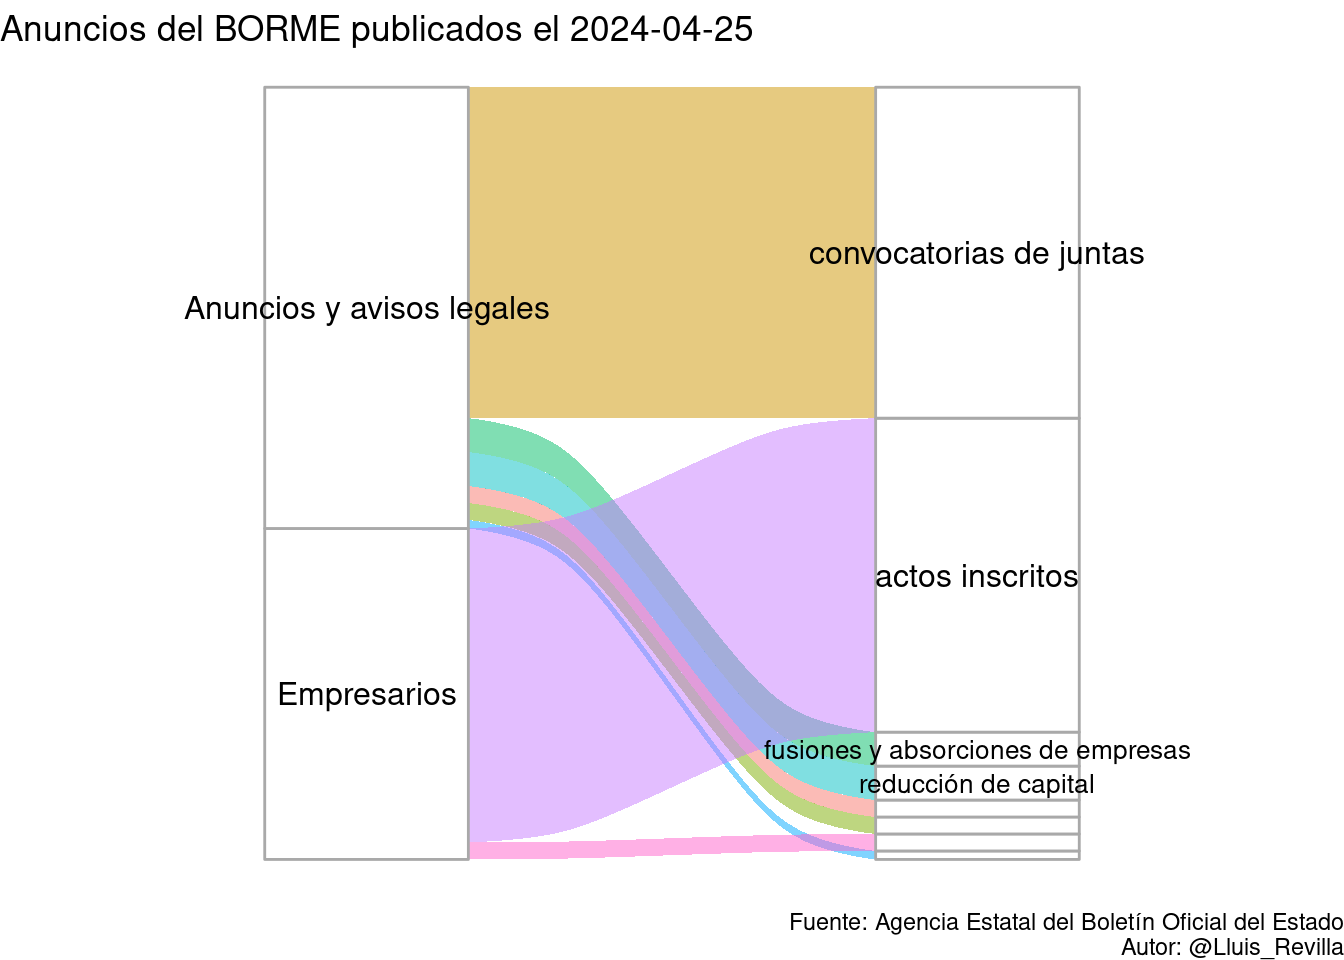
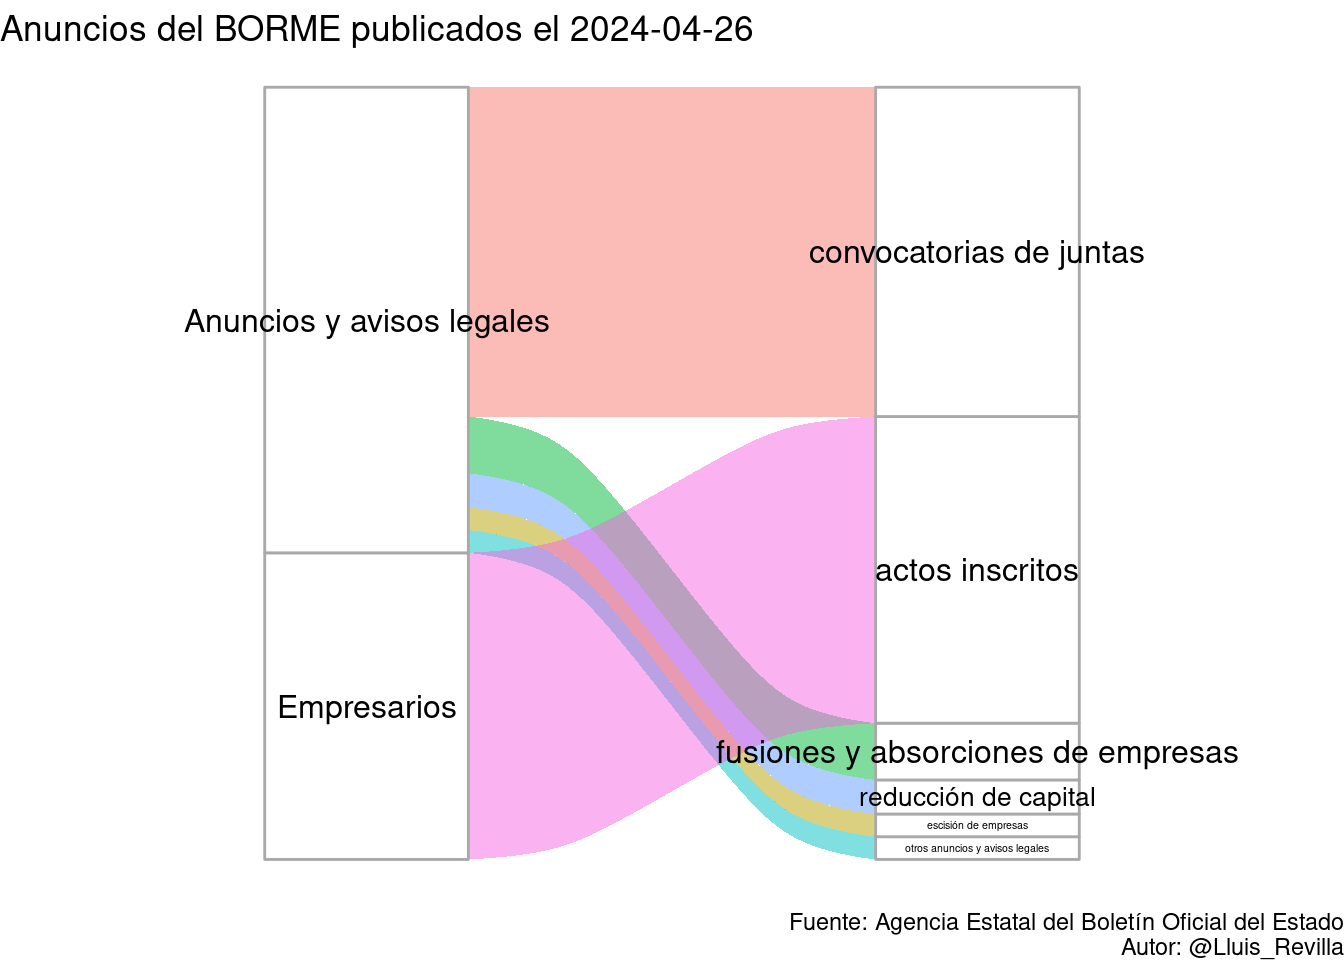
Update BORME

diff --git a/docs/last_BORME.html b/docs/last_BORME.html
@@ -379,14 +379,14 @@ $(document).ready(function () {
 
 <div id="resumen-gráfico" class="section level1">
 <h1>Resumen gráfico</h1>
-<p>Esta página web contiene el último sumario del BORME publicado el 2024-04-25 con 91 publicaciones.</p>
+<p>Esta página web contiene el último sumario del BORME publicado el 2024-04-26 con 68 publicaciones.</p>
 <p><img src="last_BORME_files/figure-html/graphics-1.png" width="672" /></p>
 </div>
 <div id="tabla-de-publicaciones" class="section level1">
 <h1>Tabla de publicaciones</h1>
 <p>Aquí está la tabla completa con enlaces a las publicaciones:</p>
-<div class="datatables html-widget html-fill-item-overflow-hidden html-fill-item" id="htmlwidget-faa242d91a4d68684cd0" style="width:100%;height:auto;"></div>
-<script type="application/json" data-for="htmlwidget-faa242d91a4d68684cd0">{"x":{"filter":"top","vertical":false,"filterHTML":"<tr>\n  <td><\/td>\n  <td data-type=\"character\" style=\"vertical-align: top;\">\n    <div class=\"form-group has-feedback\" style=\"margin-bottom: auto;\">\n      <input type=\"search\" placeholder=\"All\" class=\"form-control\" style=\"width: 100%;\"/>\n      <span class=\"glyphicon glyphicon-remove-circle form-control-feedback\"><\/span>\n    <\/div>\n  <\/td>\n  <td data-type=\"character\" style=\"vertical-align: top;\">\n    <div class=\"form-group has-feedback\" style=\"margin-bottom: auto;\">\n      <input type=\"search\" placeholder=\"All\" class=\"form-control\" style=\"width: 100%;\"/>\n      <span class=\"glyphicon glyphicon-remove-circle form-control-feedback\"><\/span>\n    <\/div>\n  <\/td>\n  <td data-type=\"character\" style=\"vertical-align: top;\">\n    <div class=\"form-group has-feedback\" style=\"margin-bottom: auto;\">\n      <input type=\"search\" placeholder=\"All\" class=\"form-control\" style=\"width: 100%;\" disabled=\"\"/>\n      <span class=\"glyphicon glyphicon-remove-circle form-control-feedback\"><\/span>\n    <\/div>\n  <\/td>\n  <td data-type=\"character\" style=\"vertical-align: top;\">\n    <div class=\"form-group has-feedback\" style=\"margin-bottom: auto;\">\n      <input type=\"search\" placeholder=\"All\" class=\"form-control\" style=\"width: 100%;\"/>\n      <span class=\"glyphicon glyphicon-remove-circle form-control-feedback\"><\/span>\n    <\/div>\n  <\/td>\n<\/tr>","data":[["1","2","3","4","5","6","7","8","9","10","11","12","13","14","15","16","17","18","19","20","21","22","23","24","25","26","27","28","29","30","31","32","33","34","35","36","37","38","39","40","41","42","43","44","45","46","47","48","49","50","51","52","53","54","55","56","57","58","59","60","61","62","63","64","65","66","67","68","69","70","71","72","73","74","75","76","77","78","79","80","81","82","83","84","85","86","87","88","89","90","91"],["SECCIÓN PRIMERA. Empresarios","SECCIÓN PRIMERA. Empresarios","SECCIÓN PRIMERA. Empresarios","SECCIÓN PRIMERA. Empresarios","SECCIÓN PRIMERA. Empresarios","SECCIÓN PRIMERA. Empresarios","SECCIÓN PRIMERA. Empresarios","SECCIÓN PRIMERA. Empresarios","SECCIÓN PRIMERA. Empresarios","SECCIÓN PRIMERA. Empresarios","SECCIÓN PRIMERA. Empresarios","SECCIÓN PRIMERA. Empresarios","SECCIÓN PRIMERA. Empresarios","SECCIÓN PRIMERA. Empresarios","SECCIÓN PRIMERA. Empresarios","SECCIÓN PRIMERA. Empresarios","SECCIÓN PRIMERA. Empresarios","SECCIÓN PRIMERA. Empresarios","SECCIÓN PRIMERA. Empresarios","SECCIÓN PRIMERA. Empresarios","SECCIÓN PRIMERA. Empresarios","SECCIÓN PRIMERA. Empresarios","SECCIÓN PRIMERA. Empresarios","SECCIÓN PRIMERA. Empresarios","SECCIÓN PRIMERA. Empresarios","SECCIÓN PRIMERA. Empresarios","SECCIÓN PRIMERA. Empresarios","SECCIÓN PRIMERA. Empresarios","SECCIÓN PRIMERA. Empresarios","SECCIÓN PRIMERA. Empresarios","SECCIÓN PRIMERA. Empresarios","SECCIÓN PRIMERA. Empresarios","SECCIÓN PRIMERA. Empresarios","SECCIÓN PRIMERA. Empresarios","SECCIÓN PRIMERA. Empresarios","SECCIÓN PRIMERA. Empresarios","SECCIÓN PRIMERA. Empresarios","SECCIÓN PRIMERA. Empresarios","SECCIÓN PRIMERA. Empresarios","SECCIÓN SEGUNDA. Anuncios y avisos legales","SECCIÓN SEGUNDA. Anuncios y avisos legales","SECCIÓN SEGUNDA. Anuncios y avisos legales","SECCIÓN SEGUNDA. Anuncios y avisos legales","SECCIÓN SEGUNDA. Anuncios y avisos legales","SECCIÓN SEGUNDA. Anuncios y avisos legales","SECCIÓN SEGUNDA. Anuncios y avisos legales","SECCIÓN SEGUNDA. Anuncios y avisos legales","SECCIÓN SEGUNDA. Anuncios y avisos legales","SECCIÓN SEGUNDA. Anuncios y avisos legales","SECCIÓN SEGUNDA. Anuncios y avisos legales","SECCIÓN SEGUNDA. Anuncios y avisos legales","SECCIÓN SEGUNDA. Anuncios y avisos legales","SECCIÓN SEGUNDA. Anuncios y avisos legales","SECCIÓN SEGUNDA. Anuncios y avisos legales","SECCIÓN SEGUNDA. Anuncios y avisos legales","SECCIÓN SEGUNDA. Anuncios y avisos legales","SECCIÓN SEGUNDA. Anuncios y avisos legales","SECCIÓN SEGUNDA. Anuncios y avisos legales","SECCIÓN SEGUNDA. Anuncios y avisos legales","SECCIÓN SEGUNDA. Anuncios y avisos legales","SECCIÓN SEGUNDA. Anuncios y avisos legales","SECCIÓN SEGUNDA. Anuncios y avisos legales","SECCIÓN SEGUNDA. Anuncios y avisos legales","SECCIÓN SEGUNDA. Anuncios y avisos legales","SECCIÓN SEGUNDA. Anuncios y avisos legales","SECCIÓN SEGUNDA. Anuncios y avisos legales","SECCIÓN SEGUNDA. Anuncios y avisos legales","SECCIÓN SEGUNDA. Anuncios y avisos legales","SECCIÓN SEGUNDA. Anuncios y avisos legales","SECCIÓN SEGUNDA. Anuncios y avisos legales","SECCIÓN SEGUNDA. Anuncios y avisos legales","SECCIÓN SEGUNDA. Anuncios y avisos legales","SECCIÓN SEGUNDA. Anuncios y avisos legales","SECCIÓN SEGUNDA. Anuncios y avisos legales","SECCIÓN SEGUNDA. Anuncios y avisos legales","SECCIÓN SEGUNDA. Anuncios y avisos legales","SECCIÓN SEGUNDA. Anuncios y avisos legales","SECCIÓN SEGUNDA. Anuncios y avisos legales","SECCIÓN SEGUNDA. Anuncios y avisos legales","SECCIÓN SEGUNDA. Anuncios y avisos legales","SECCIÓN SEGUNDA. Anuncios y avisos legales","SECCIÓN SEGUNDA. Anuncios y avisos legales","SECCIÓN SEGUNDA. Anuncios y avisos legales","SECCIÓN SEGUNDA. Anuncios y avisos legales","SECCIÓN SEGUNDA. Anuncios y avisos legales","SECCIÓN SEGUNDA. Anuncios y avisos legales","SECCIÓN SEGUNDA. Anuncios y avisos legales","SECCIÓN SEGUNDA. Anuncios y avisos legales","SECCIÓN SEGUNDA. Anuncios y avisos legales","SECCIÓN SEGUNDA. Anuncios y avisos legales","SECCIÓN SEGUNDA. Anuncios y avisos legales"],["Actos inscritos","Actos inscritos","Actos inscritos","Actos inscritos","Actos inscritos","Actos inscritos","Actos inscritos","Actos inscritos","Actos inscritos","Actos inscritos","Actos inscritos","Actos inscritos","Actos inscritos","Actos inscritos","Actos inscritos","Actos inscritos","Actos inscritos","Actos inscritos","Actos inscritos","Actos inscritos","Actos inscritos","Actos inscritos","Actos inscritos","Actos inscritos","Actos inscritos","Actos inscritos","Actos inscritos","Actos inscritos","Actos inscritos","Actos inscritos","Actos inscritos","Actos inscritos","Actos inscritos","Actos inscritos","Actos inscritos","Actos inscritos","Actos inscritos","Otros actos publicados en el Registro Mercantil","Otros actos publicados en el Registro Mercantil","CONVOCATORIAS DE JUNTAS","CONVOCATORIAS DE JUNTAS","CONVOCATORIAS DE JUNTAS","CONVOCATORIAS DE JUNTAS","CONVOCATORIAS DE JUNTAS","CONVOCATORIAS DE JUNTAS","CONVOCATORIAS DE JUNTAS","CONVOCATORIAS DE JUNTAS","CONVOCATORIAS DE JUNTAS","CONVOCATORIAS DE JUNTAS","CONVOCATORIAS DE JUNTAS","CONVOCATORIAS DE JUNTAS","CONVOCATORIAS DE JUNTAS","CONVOCATORIAS DE JUNTAS","CONVOCATORIAS DE JUNTAS","CONVOCATORIAS DE JUNTAS","CONVOCATORIAS DE JUNTAS","CONVOCATORIAS DE JUNTAS","CONVOCATORIAS DE JUNTAS","CONVOCATORIAS DE JUNTAS","CONVOCATORIAS DE JUNTAS","CONVOCATORIAS DE JUNTAS","CONVOCATORIAS DE JUNTAS","CONVOCATORIAS DE JUNTAS","CONVOCATORIAS DE JUNTAS","CONVOCATORIAS DE JUNTAS","CONVOCATORIAS DE JUNTAS","CONVOCATORIAS DE JUNTAS","CONVOCATORIAS DE JUNTAS","CONVOCATORIAS DE JUNTAS","CONVOCATORIAS DE JUNTAS","CONVOCATORIAS DE JUNTAS","CONVOCATORIAS DE JUNTAS","CONVOCATORIAS DE JUNTAS","CONVOCATORIAS DE JUNTAS","CONVOCATORIAS DE JUNTAS","CONVOCATORIAS DE JUNTAS","CONVOCATORIAS DE JUNTAS","CONVOCATORIAS DE JUNTAS","FUSIONES Y ABSORCIONES DE EMPRESAS","FUSIONES Y ABSORCIONES DE EMPRESAS","FUSIONES Y ABSORCIONES DE EMPRESAS","FUSIONES Y ABSORCIONES DE EMPRESAS","ESCISIÓN DE EMPRESAS","ESCISIÓN DE EMPRESAS","TRANSFORMACIÓN DE EMPRESAS","AUMENTO DE CAPITAL","AUMENTO DE CAPITAL","REDUCCIÓN DE CAPITAL","REDUCCIÓN DE CAPITAL","REDUCCIÓN DE CAPITAL","REDUCCIÓN DE CAPITAL"],[null,null,null,null,null,null,null,null,null,null,null,null,null,null,null,null,null,null,null,null,null,null,null,null,null,null,null,null,null,null,null,null,null,null,null,null,null,null,null,null,null,null,null,null,null,null,null,null,null,null,null,null,null,null,null,null,null,null,null,null,null,null,null,null,null,null,null,null,null,null,null,null,null,null,null,null,null,null,null,null,null,null,null,null,null,null,null,null,null,null,null],["BORME-A-2024-81-01","BORME-A-2024-81-02","BORME-A-2024-81-04","BORME-A-2024-81-05","BORME-A-2024-81-06","BORME-A-2024-81-07","BORME-A-2024-81-08","BORME-A-2024-81-09","BORME-A-2024-81-11","BORME-A-2024-81-12","BORME-A-2024-81-13","BORME-A-2024-81-14","BORME-A-2024-81-15","BORME-A-2024-81-16","BORME-A-2024-81-17","BORME-A-2024-81-19","BORME-A-2024-81-20","BORME-A-2024-81-24","BORME-A-2024-81-25","BORME-A-2024-81-27","BORME-A-2024-81-28","BORME-A-2024-81-29","BORME-A-2024-81-30","BORME-A-2024-81-31","BORME-A-2024-81-33","BORME-A-2024-81-35","BORME-A-2024-81-36","BORME-A-2024-81-39","BORME-A-2024-81-40","BORME-A-2024-81-41","BORME-A-2024-81-43","BORME-A-2024-81-45","BORME-A-2024-81-46","BORME-A-2024-81-47","BORME-A-2024-81-48","BORME-A-2024-81-50","BORME-A-2024-81-99","BORME-B-2024-81-05","BORME-B-2024-81-28","BORME-C-2024-1568","BORME-C-2024-1569","BORME-C-2024-1570","BORME-C-2024-1571","BORME-C-2024-1572","BORME-C-2024-1573","BORME-C-2024-1574","BORME-C-2024-1575","BORME-C-2024-1576","BORME-C-2024-1577","BORME-C-2024-1578","BORME-C-2024-1579","BORME-C-2024-1580","BORME-C-2024-1581","BORME-C-2024-1582","BORME-C-2024-1583","BORME-C-2024-1584","BORME-C-2024-1585","BORME-C-2024-1586","BORME-C-2024-1587","BORME-C-2024-1588","BORME-C-2024-1589","BORME-C-2024-1590","BORME-C-2024-1591","BORME-C-2024-1592","BORME-C-2024-1593","BORME-C-2024-1594","BORME-C-2024-1595","BORME-C-2024-1596","BORME-C-2024-1597","BORME-C-2024-1598","BORME-C-2024-1599","BORME-C-2024-1600","BORME-C-2024-1601","BORME-C-2024-1602","BORME-C-2024-1603","BORME-C-2024-1604","BORME-C-2024-1605","BORME-C-2024-1606","BORME-C-2024-1607","BORME-C-2024-1608","BORME-C-2024-1609","BORME-C-2024-1610","BORME-C-2024-1611","BORME-C-2024-1612","BORME-C-2024-1613","BORME-C-2024-1614","BORME-C-2024-1615","BORME-C-2024-1616","BORME-C-2024-1617","BORME-C-2024-1618","BORME-C-2024-1619"]],"container":"<table class=\"display\">\n  <thead>\n    <tr>\n      <th> <\/th>\n      <th>Sección<\/th>\n      <th>Emisor<\/th>\n      <th>Texto<\/th>\n      <th>Link<\/th>\n    <\/tr>\n  <\/thead>\n<\/table>","options":{"pageLength":10,"autoWidth":true,"columnDefs":[{"orderable":false,"targets":0},{"name":" ","targets":0},{"name":"Sección","targets":1},{"name":"Emisor","targets":2},{"name":"Texto","targets":3},{"name":"Link","targets":4}],"order":[],"orderClasses":false,"orderCellsTop":true}},"evals":[],"jsHooks":[]}</script>
+<div class="datatables html-widget html-fill-item-overflow-hidden html-fill-item" id="htmlwidget-0e7ebeff2a682cfec1ec" style="width:100%;height:auto;"></div>
+<script type="application/json" data-for="htmlwidget-0e7ebeff2a682cfec1ec">{"x":{"filter":"top","vertical":false,"filterHTML":"<tr>\n  <td><\/td>\n  <td data-type=\"character\" style=\"vertical-align: top;\">\n    <div class=\"form-group has-feedback\" style=\"margin-bottom: auto;\">\n      <input type=\"search\" placeholder=\"All\" class=\"form-control\" style=\"width: 100%;\"/>\n      <span class=\"glyphicon glyphicon-remove-circle form-control-feedback\"><\/span>\n    <\/div>\n  <\/td>\n  <td data-type=\"character\" style=\"vertical-align: top;\">\n    <div class=\"form-group has-feedback\" style=\"margin-bottom: auto;\">\n      <input type=\"search\" placeholder=\"All\" class=\"form-control\" style=\"width: 100%;\"/>\n      <span class=\"glyphicon glyphicon-remove-circle form-control-feedback\"><\/span>\n    <\/div>\n  <\/td>\n  <td data-type=\"character\" style=\"vertical-align: top;\">\n    <div class=\"form-group has-feedback\" style=\"margin-bottom: auto;\">\n      <input type=\"search\" placeholder=\"All\" class=\"form-control\" style=\"width: 100%;\" disabled=\"\"/>\n      <span class=\"glyphicon glyphicon-remove-circle form-control-feedback\"><\/span>\n    <\/div>\n  <\/td>\n  <td data-type=\"character\" style=\"vertical-align: top;\">\n    <div class=\"form-group has-feedback\" style=\"margin-bottom: auto;\">\n      <input type=\"search\" placeholder=\"All\" class=\"form-control\" style=\"width: 100%;\"/>\n      <span class=\"glyphicon glyphicon-remove-circle form-control-feedback\"><\/span>\n    <\/div>\n  <\/td>\n<\/tr>","data":[["1","2","3","4","5","6","7","8","9","10","11","12","13","14","15","16","17","18","19","20","21","22","23","24","25","26","27","28","29","30","31","32","33","34","35","36","37","38","39","40","41","42","43","44","45","46","47","48","49","50","51","52","53","54","55","56","57","58","59","60","61","62","63","64","65","66","67","68"],["SECCIÓN PRIMERA. Empresarios","SECCIÓN PRIMERA. Empresarios","SECCIÓN PRIMERA. Empresarios","SECCIÓN PRIMERA. Empresarios","SECCIÓN PRIMERA. Empresarios","SECCIÓN PRIMERA. Empresarios","SECCIÓN PRIMERA. Empresarios","SECCIÓN PRIMERA. Empresarios","SECCIÓN PRIMERA. Empresarios","SECCIÓN PRIMERA. Empresarios","SECCIÓN PRIMERA. Empresarios","SECCIÓN PRIMERA. Empresarios","SECCIÓN PRIMERA. Empresarios","SECCIÓN PRIMERA. Empresarios","SECCIÓN PRIMERA. Empresarios","SECCIÓN PRIMERA. Empresarios","SECCIÓN PRIMERA. Empresarios","SECCIÓN PRIMERA. Empresarios","SECCIÓN PRIMERA. Empresarios","SECCIÓN PRIMERA. Empresarios","SECCIÓN PRIMERA. Empresarios","SECCIÓN PRIMERA. Empresarios","SECCIÓN PRIMERA. Empresarios","SECCIÓN PRIMERA. Empresarios","SECCIÓN PRIMERA. Empresarios","SECCIÓN PRIMERA. Empresarios","SECCIÓN PRIMERA. Empresarios","SECCIÓN SEGUNDA. Anuncios y avisos legales","SECCIÓN SEGUNDA. Anuncios y avisos legales","SECCIÓN SEGUNDA. Anuncios y avisos legales","SECCIÓN SEGUNDA. Anuncios y avisos legales","SECCIÓN SEGUNDA. Anuncios y avisos legales","SECCIÓN SEGUNDA. Anuncios y avisos legales","SECCIÓN SEGUNDA. Anuncios y avisos legales","SECCIÓN SEGUNDA. Anuncios y avisos legales","SECCIÓN SEGUNDA. Anuncios y avisos legales","SECCIÓN SEGUNDA. Anuncios y avisos legales","SECCIÓN SEGUNDA. Anuncios y avisos legales","SECCIÓN SEGUNDA. Anuncios y avisos legales","SECCIÓN SEGUNDA. Anuncios y avisos legales","SECCIÓN SEGUNDA. Anuncios y avisos legales","SECCIÓN SEGUNDA. Anuncios y avisos legales","SECCIÓN SEGUNDA. Anuncios y avisos legales","SECCIÓN SEGUNDA. Anuncios y avisos legales","SECCIÓN SEGUNDA. Anuncios y avisos legales","SECCIÓN SEGUNDA. Anuncios y avisos legales","SECCIÓN SEGUNDA. Anuncios y avisos legales","SECCIÓN SEGUNDA. Anuncios y avisos legales","SECCIÓN SEGUNDA. Anuncios y avisos legales","SECCIÓN SEGUNDA. Anuncios y avisos legales","SECCIÓN SEGUNDA. Anuncios y avisos legales","SECCIÓN SEGUNDA. Anuncios y avisos legales","SECCIÓN SEGUNDA. Anuncios y avisos legales","SECCIÓN SEGUNDA. Anuncios y avisos legales","SECCIÓN SEGUNDA. Anuncios y avisos legales","SECCIÓN SEGUNDA. Anuncios y avisos legales","SECCIÓN SEGUNDA. Anuncios y avisos legales","SECCIÓN SEGUNDA. Anuncios y avisos legales","SECCIÓN SEGUNDA. Anuncios y avisos legales","SECCIÓN SEGUNDA. Anuncios y avisos legales","SECCIÓN SEGUNDA. Anuncios y avisos legales","SECCIÓN SEGUNDA. Anuncios y avisos legales","SECCIÓN SEGUNDA. Anuncios y avisos legales","SECCIÓN SEGUNDA. Anuncios y avisos legales","SECCIÓN SEGUNDA. Anuncios y avisos legales","SECCIÓN SEGUNDA. Anuncios y avisos legales","SECCIÓN SEGUNDA. Anuncios y avisos legales","SECCIÓN SEGUNDA. Anuncios y avisos legales"],["Actos inscritos","Actos inscritos","Actos inscritos","Actos inscritos","Actos inscritos","Actos inscritos","Actos inscritos","Actos inscritos","Actos inscritos","Actos inscritos","Actos inscritos","Actos inscritos","Actos inscritos","Actos inscritos","Actos inscritos","Actos inscritos","Actos inscritos","Actos inscritos","Actos inscritos","Actos inscritos","Actos inscritos","Actos inscritos","Actos inscritos","Actos inscritos","Actos inscritos","Actos inscritos","Actos inscritos","CONVOCATORIAS DE JUNTAS","CONVOCATORIAS DE JUNTAS","CONVOCATORIAS DE JUNTAS","CONVOCATORIAS DE JUNTAS","CONVOCATORIAS DE JUNTAS","CONVOCATORIAS DE JUNTAS","CONVOCATORIAS DE JUNTAS","CONVOCATORIAS DE JUNTAS","CONVOCATORIAS DE JUNTAS","CONVOCATORIAS DE JUNTAS","CONVOCATORIAS DE JUNTAS","CONVOCATORIAS DE JUNTAS","CONVOCATORIAS DE JUNTAS","CONVOCATORIAS DE JUNTAS","CONVOCATORIAS DE JUNTAS","CONVOCATORIAS DE JUNTAS","CONVOCATORIAS DE JUNTAS","CONVOCATORIAS DE JUNTAS","CONVOCATORIAS DE JUNTAS","CONVOCATORIAS DE JUNTAS","CONVOCATORIAS DE JUNTAS","CONVOCATORIAS DE JUNTAS","CONVOCATORIAS DE JUNTAS","CONVOCATORIAS DE JUNTAS","CONVOCATORIAS DE JUNTAS","CONVOCATORIAS DE JUNTAS","CONVOCATORIAS DE JUNTAS","CONVOCATORIAS DE JUNTAS","CONVOCATORIAS DE JUNTAS","FUSIONES Y ABSORCIONES DE EMPRESAS","FUSIONES Y ABSORCIONES DE EMPRESAS","FUSIONES Y ABSORCIONES DE EMPRESAS","FUSIONES Y ABSORCIONES DE EMPRESAS","FUSIONES Y ABSORCIONES DE EMPRESAS","ESCISIÓN DE EMPRESAS","ESCISIÓN DE EMPRESAS","REDUCCIÓN DE CAPITAL","REDUCCIÓN DE CAPITAL","REDUCCIÓN DE CAPITAL","OTROS ANUNCIOS Y AVISOS LEGALES","OTROS ANUNCIOS Y AVISOS LEGALES"],[null,null,null,null,null,null,null,null,null,null,null,null,null,null,null,null,null,null,null,null,null,null,null,null,null,null,null,null,null,null,null,null,null,null,null,null,null,null,null,null,null,null,null,null,null,null,null,null,null,null,null,null,null,null,null,null,null,null,null,null,null,null,null,null,null,null,null,null],["BORME-A-2024-82-02","BORME-A-2024-82-03","BORME-A-2024-82-04","BORME-A-2024-82-06","BORME-A-2024-82-07","BORME-A-2024-82-08","BORME-A-2024-82-11","BORME-A-2024-82-13","BORME-A-2024-82-15","BORME-A-2024-82-17","BORME-A-2024-82-18","BORME-A-2024-82-24","BORME-A-2024-82-25","BORME-A-2024-82-26","BORME-A-2024-82-28","BORME-A-2024-82-31","BORME-A-2024-82-32","BORME-A-2024-82-33","BORME-A-2024-82-34","BORME-A-2024-82-35","BORME-A-2024-82-36","BORME-A-2024-82-37","BORME-A-2024-82-38","BORME-A-2024-82-43","BORME-A-2024-82-46","BORME-A-2024-82-47","BORME-A-2024-82-99","BORME-C-2024-1620","BORME-C-2024-1621","BORME-C-2024-1622","BORME-C-2024-1623","BORME-C-2024-1624","BORME-C-2024-1625","BORME-C-2024-1626","BORME-C-2024-1627","BORME-C-2024-1628","BORME-C-2024-1629","BORME-C-2024-1630","BORME-C-2024-1631","BORME-C-2024-1632","BORME-C-2024-1633","BORME-C-2024-1634","BORME-C-2024-1635","BORME-C-2024-1636","BORME-C-2024-1637","BORME-C-2024-1638","BORME-C-2024-1639","BORME-C-2024-1640","BORME-C-2024-1641","BORME-C-2024-1642","BORME-C-2024-1643","BORME-C-2024-1644","BORME-C-2024-1645","BORME-C-2024-1646","BORME-C-2024-1647","BORME-C-2024-1648","BORME-C-2024-1649","BORME-C-2024-1650","BORME-C-2024-1651","BORME-C-2024-1652","BORME-C-2024-1653","BORME-C-2024-1654","BORME-C-2024-1655","BORME-C-2024-1656","BORME-C-2024-1657","BORME-C-2024-1658","BORME-C-2024-1659","BORME-C-2024-1660"]],"container":"<table class=\"display\">\n  <thead>\n    <tr>\n      <th> <\/th>\n      <th>Sección<\/th>\n      <th>Emisor<\/th>\n      <th>Texto<\/th>\n      <th>Link<\/th>\n    <\/tr>\n  <\/thead>\n<\/table>","options":{"pageLength":10,"autoWidth":true,"columnDefs":[{"orderable":false,"targets":0},{"name":" ","targets":0},{"name":"Sección","targets":1},{"name":"Emisor","targets":2},{"name":"Texto","targets":3},{"name":"Link","targets":4}],"order":[],"orderClasses":false,"orderCellsTop":true}},"evals":[],"jsHooks":[]}</script>
 </div>
 
 
